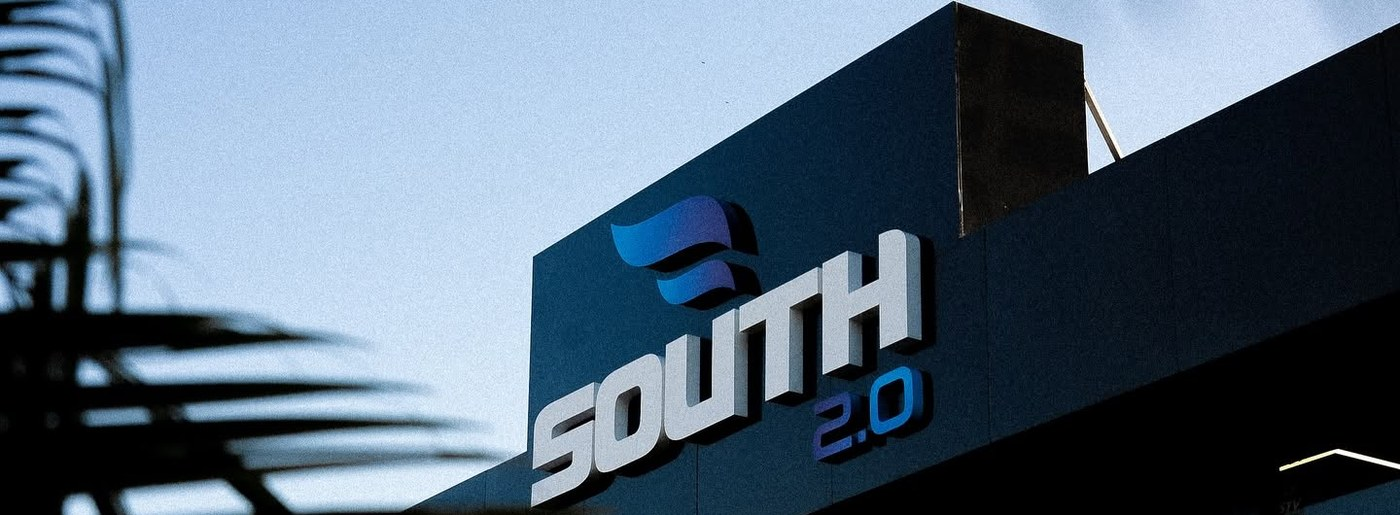
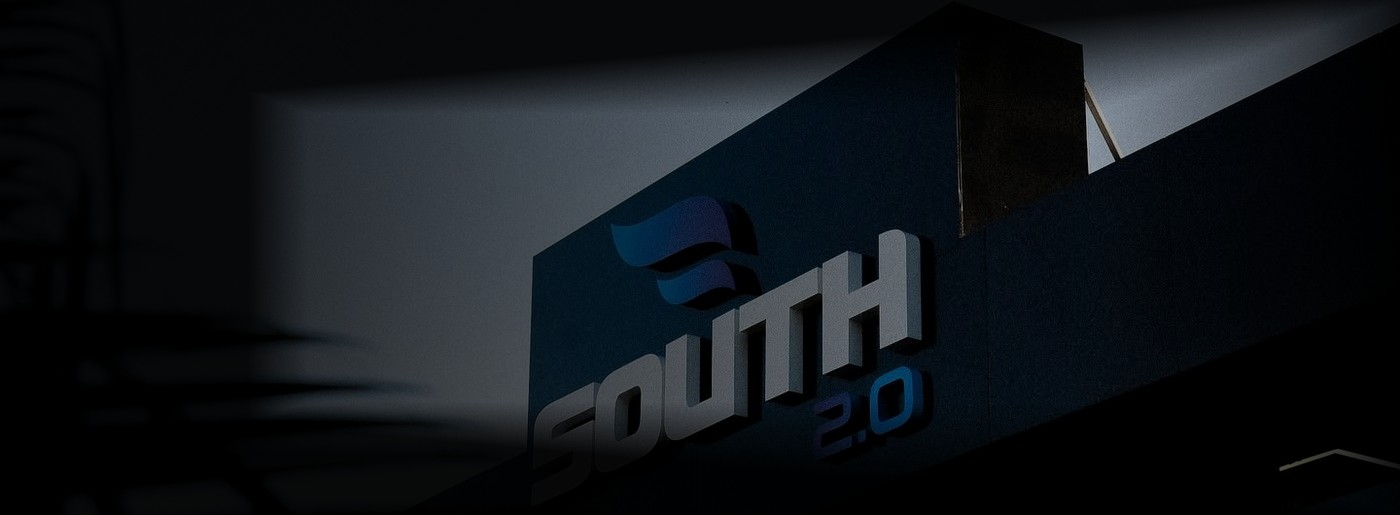
Corrige o escurecimento do card de treinamento de vez: em vez de empilhar box-shadow inset + gradiente via CSS (que deixava uma fresta sem cobrir o canto/borda da foto), assa o gradiente horizontal + vinheta direto na propria imagem em Python. Cobertura garantida em 100% da foto, sem depender de com

diff --git a/index.html b/index.html
@@ -191,8 +191,8 @@ nav.links a.nav-locked{opacity:.4;pointer-events:none;cursor:not-allowed;}
 .feature{position:relative;border-radius:3px;overflow:hidden;border:1px solid var(--line);padding:64px 48px;background:linear-gradient(115deg,#0c1424,#132339 60%,#080d16);}
 .feature::after{content:'';position:absolute;inset:0;background:radial-gradient(60% 100% at 85% 50%,rgba(58,95,176,.14),transparent 60%);}
 .feature-inner{position:relative;z-index:2;max-width:520px;}
-.feature-photo{background-size:cover;background-position:center;box-shadow:inset 0 0 100px 40px rgba(5,8,15,.75);border-color:transparent;}
-.feature-photo::after{background:linear-gradient(100deg,rgba(5,8,15,.96) 0%,rgba(5,8,15,.9) 38%,rgba(5,8,15,.55) 68%,rgba(5,8,15,.25) 100%);}
+.feature-photo{background-size:cover;background-position:center;border-color:transparent;}
+.feature-photo::after{background:none;}
 .feature-logo-badge{position:absolute;right:40px;top:50%;transform:translateY(-50%);width:230px;max-width:34%;z-index:1;pointer-events:none;user-select:none;border-radius:8px;box-shadow:0 10px 30px rgba(0,0,0,.35);}
 @media(max-width:700px){.feature-logo-badge{width:130px;right:20px;}}
 .feature h3{font-family:'Barlow Condensed',sans-serif;font-weight:700;font-size:clamp(30px,4vw,52px);text-transform:uppercase;line-height:.98;color:var(--blue-2);}
